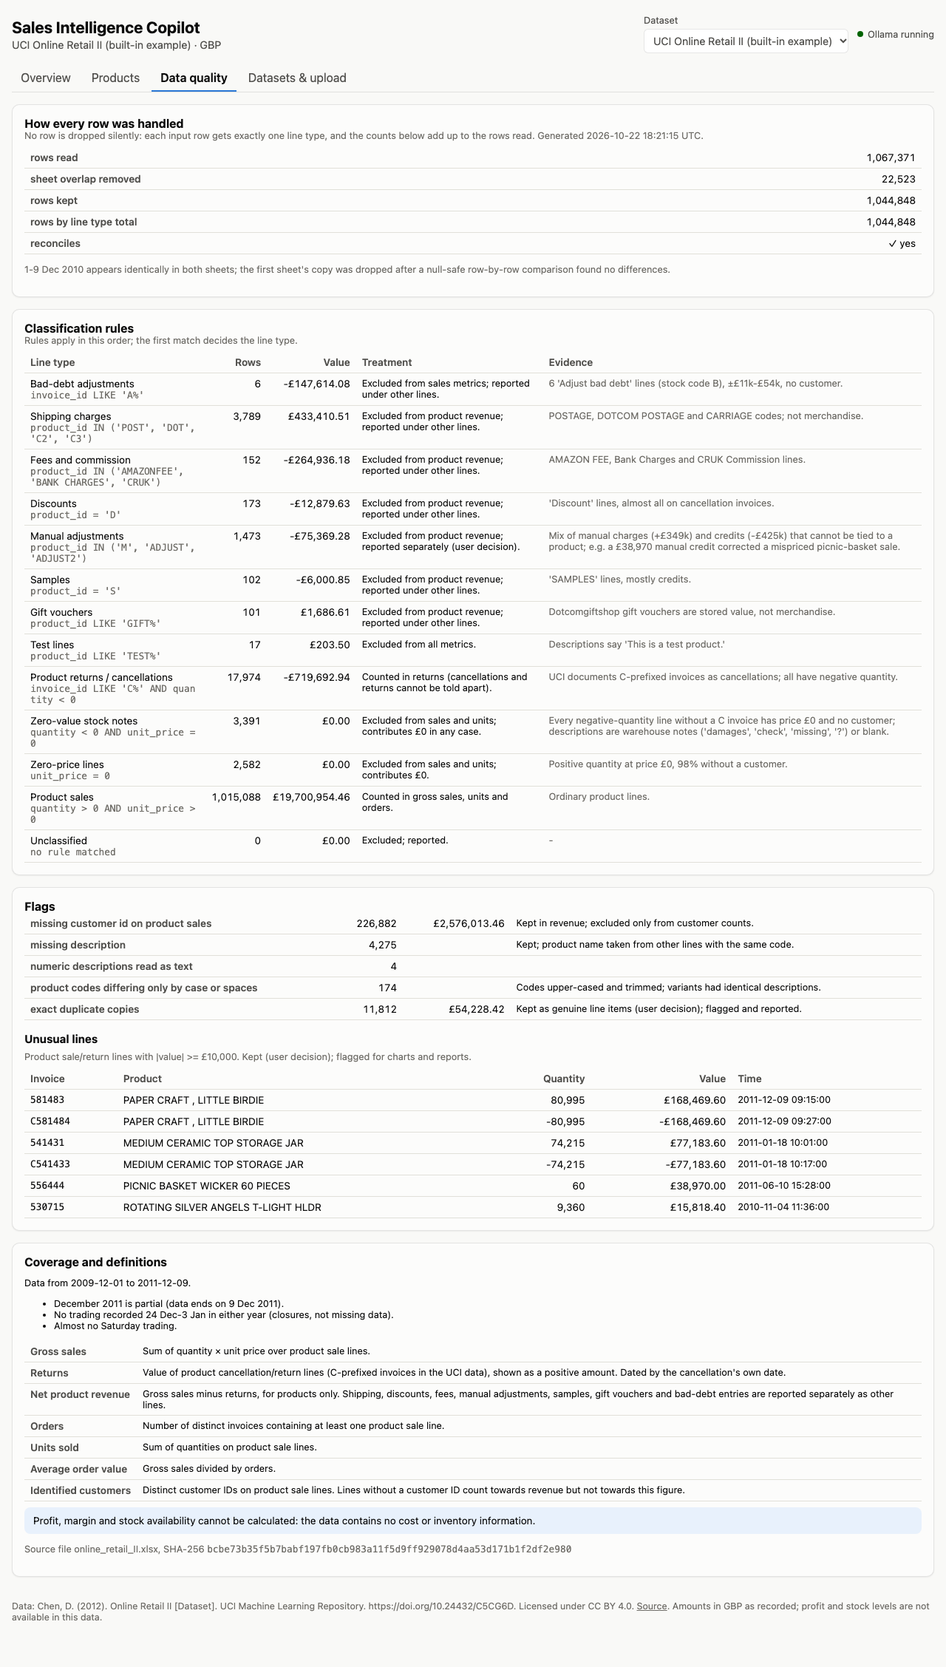
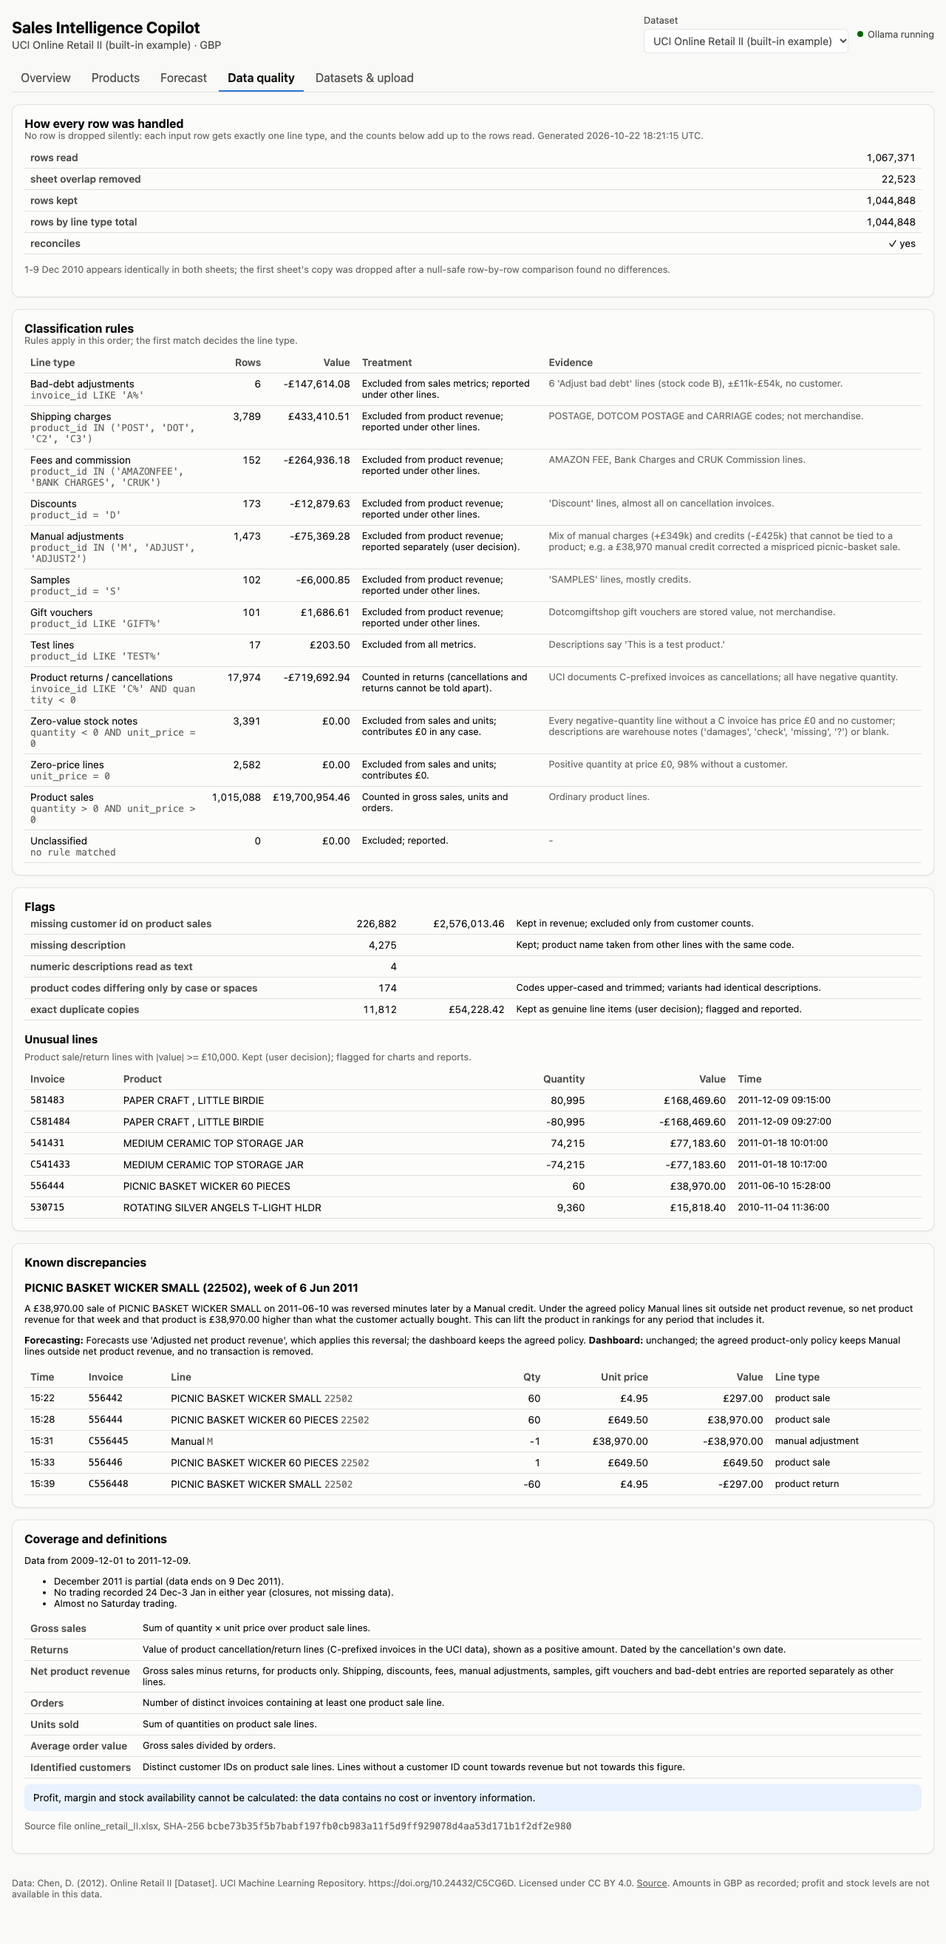
Document forecasting method, results and Milestone 3 status
docs/forecasting.md explains the target, frozen design, integrity timeline,
results by horizon, what they mean (validation contained no peak season, so
the selected total model lost to seasonal naive on the holdout) and
limitations. README and PROJECT_STATUS updated; screenshots retaken.

diff --git a/PROJECT_STATUS.md b/PROJECT_STATUS.md
@@ -1,13 +1,51 @@
 # Project status
 
-_Last updated: 2026-10-24 (Milestone 3 feasibility review, awaiting approval)._
+_Last updated: 2026-10-24 (end of Milestone 3)._
 Read this first when resuming work on any computer.
 
 ## Current milestone
-**Milestone 3 (forecasting): feasibility review done; no model trained.** Waiting for the user's decisions and approval before implementing training.
-Milestone 2 is complete on macOS.
+**Milestone 3 (forecasting): complete on macOS, awaiting review.** Milestone 4 (assistant) has **not** started.
 
-## Milestone 3 so far
+## Completed: Milestone 3
+- **Approved decisions implemented:**
+  - Option A forecasting-only correction.
+  - Dashboard note for the picnic basket.
+  - Christmas closure weeks kept as £0 and flagged "inferred Christmas closure".
+  - Holiday-calendar inputs from a published list.
+  - Total + top 20 products, horizons 1–8.
+- **Frozen design:** [configs/forecast.toml](configs/forecast.toml), committed (`685e1b4`) before any model ran on the data. The pipeline has a two-stage guard: the holdout stage refuses to run if the config or data changed after selection.
+- **Code:**
+  - [backend/sic/forecast/](backend/sic/forecast/): calendar, series and corrections, models, evaluation, pipeline, report.
+  - [backend/sic/jobs.py](backend/sic/jobs.py): background job runner with progress.
+  - [backend/sic/api/forecast.py](backend/sic/api/forecast.py).
+  - [scripts/train_forecast.py](scripts/train_forecast.py).
+- **Forecast page:**
+  - Target explanation (adjusted vs reported).
+  - Training with a progress bar.
+  - Future forecast with 80% range and a seasonal-naive comparison line.
+  - Holdout backtest by horizon.
+  - Metric tables with n and n/a reasons.
+  - Automatic warnings.
+- **Dashboard:**
+  - A visible picnic-basket note on Overview/Products when that week or product is in view, linking to full details (5 transactions) on Data quality.
+  - Weekly zeros explained: "inferred Christmas closure" vs "business was trading; no recorded sales".
+- **Uploads:** train on their own data with the same rules (minimum 70 complete weeks), month-only calendar, artifacts in the upload's ignored folder.
+- **Write-up:** [docs/forecasting.md](docs/forecasting.md). Full metrics: [evaluation/forecast/uci/report.md](evaluation/forecast/uci/report.md).
+
+### Results (built-in data)
+| Group | Selected on validation | Validation mean WAPE | Holdout mean WAPE | Best on holdout |
+|---|---|---:|---:|---|
+| Business total | HistGradientBoosting | 19.3% | **24.6%** | Seasonal naive, 9.5% |
+| Top 20 products | 4-week moving average (baseline) | 50.7% | 50.4% | Same model |
+
+- **Business total, 80% intervals:** covered 0–44% of holdout weeks (calibration n = 12 → 5). Far too narrow.
+- **Products, 80% intervals:** 57–80% coverage (n = 240 → 100).
+- **Integrity record:**
+  - The holdout is **not completely unseen**: its aggregate weekly totals were inspected during the feasibility review.
+  - The first holdout run crashed while saving the model file (pickling error), before any holdout metric was written or shown. Only the serialization was fixed (`55b4553`).
+  - The final clean re-run (`14ab70a`) reproduced the metrics exactly.
+
+## Milestone 3 feasibility review
 - **Feasibility review:** [docs/forecasting_feasibility_review.md](docs/forecasting_feasibility_review.md). Reproducible with [scripts/forecast_feasibility.py](scripts/forecast_feasibility.py), which writes [evaluation/forecast_feasibility/review.json](evaluation/forecast_feasibility/review.json) and asserts the window dates.
 - **Key findings:**
   - **Weeks:** 104 complete weeks (7 Dec 2009 → 4 Dec 2011). Two weeks have no records of any kind (the Christmas closures, weeks 4 and 56). No missing data was detected: every non-trading weekday matches a UK public holiday or the Christmas closure.
@@ -61,6 +99,17 @@ Milestone 2 is complete on macOS.
 - **Memory check**: [scripts/memory_check.py](scripts/memory_check.py) (one model plus the running app), with results in [evaluation/memory/](evaluation/memory/2026-10-22_darwin-arm64.md).
 
 ## Checks performed (actual results)
+### Milestone 3
+| Check | Result |
+|---|---|
+| `uv run pytest` | **64 passed**. They cover: future-data perturbation for all 6 models; window boundaries; horizon/provisional rules; metrics including n/a; the selection rule (a baseline can win, ties go to the simpler model, the experiment is never selected); calendar; exact/unique/too-late correction matching; the real-data correction touching one week only; closure flags; model save/reload; upload training through the job API; ineligible short uploads |
+| Selection recorded before the holdout | Selection commit `685e1b4` (clean); selection results committed (`d89d3a1`) before any holdout run |
+| Holdout re-run reproducibility | `report.md` identical apart from the run timestamp and commit |
+| Browser: upload → Forecast → Train | Progress bar shown; finished; upload selected Ridge for its total on its own validation; month-only calendar; no page errors; deleted with no leftovers |
+| Browser: picnic note | Shown for periods including 6 Jun 2011, hidden for November 2011; "Details" opens 5 transactions |
+| Bank-holiday list consistency | All 17 weekday bank holidays in the data range had no trading; every non-trading weekday is a bank holiday or 24 Dec–3 Jan |
+| Upload e2e (`scripts/e2e_upload_check.py`) and screenshots | Pass; light/dark screenshots retaken, including Forecast |
+
 ### Milestone 3 (review stage)
 | Check | Result |
 |---|---|
@@ -144,18 +193,25 @@ The assistant is **not complete** until each of these is implemented **and verif
 - Validation and grounding checks reduce errors but **do not guarantee correctness**. The reports must say so.
 
 ## Pending decisions (need the user)
-1. **Picnic-basket treatment for the forecasting target:**
-   - **A (recommended):** a documented correction rule applied to the forecasting series only.
-   - **B:** no correction.
-   - **C:** exclude week 79 from validation scoring.
-   - The revenue policy stays unchanged either way.
-2. **Dashboard annotation** for product 22502 and the week of 6 June 2011 (recommended); no policy change.
-3. **Closure weeks:** keep them as zeros and add a calendar trading-days feature (recommended).
-4. **First forecasting scope:** total + top 20 products (recommended), or the total only.
-5. **Code licence:** to be discussed separately.
+1. **Business-total forecasting model.** The frozen selection (HistGradientBoosting) lost clearly to seasonal naive on the holdout, and its intervals under-cover. Options:
+   - Keep it, with the warnings shown (current state).
+   - Adopt seasonal naive as a separately labelled "v2" chosen after seeing holdout results. No untouched data would remain to test it.
+   - Revise the selection design for future data.
+2. **Code licence:** to be discussed separately.
+
+### Decided (Milestone 3)
+- Picnic basket: Option A (forecasting-only correction); dashboard note approved.
+- Closure weeks: £0, flagged "inferred Christmas closure"; published holiday calendar as inputs only.
+- Scope: total + top 20 products (selected on weeks 1–60); horizons 1–8 (6–8 provisional).
 
 ## Known issues and limitations
 ### Open issues (must stay open until verified fixed)
+- **Business-total forecast (open):**
+  - The selected model's holdout WAPE is 24.6% vs 9.5% for seasonal naive; bias rises to +33% at 8 weeks.
+  - It forecasts −£8,036 for the week of 26 Dec 2011.
+  - Its 80% ranges are too narrow.
+  - **Cause:** with two years of data, validation (Feb–Jun) contains no peak season. See decision 1.
+- **Flat product forecasts (open):** the selected 4-week moving average repeats one value for 8 weeks and cannot anticipate seasonal turns (e.g. Christmas products in January).
 - **Instruct model argument errors (open):** 81% correct arguments in the 16-question regression test. Seen errors:
   - swapped comparison periods in the main example request
   - `horizon_weeks: 20`, beyond the 8-week limit (validation caught it)
@@ -203,13 +259,10 @@ The assistant is **not complete** until each of these is implemented **and verif
   - `uv run python scripts/download_data.py`
   - `uv run python scripts/prepare_data.py` (the pinned-totals test confirms the result matches)
   - `uv run playwright install chromium` (only needed for screenshots and browser checks)
+  - `uv run python scripts/train_forecast.py --stage selection`, then `--stage holdout`. This regenerates the local model files; the tracked metrics in `evaluation/forecast/uci/` should reproduce. Uploads' models are retrained in the app.
 - **Never copied between computers:** uploaded datasets live only on the computer where they were uploaded; re-upload them if needed.
 - **Local Git settings are per clone.** On a new clone, repeat the `git config --local` steps in [docs/setup-macos.md](docs/setup-macos.md).
   - These include `http.postBuffer`: pushing the screenshots failed with `HTTP 400` until it was raised for this repository.
 
 ## Next task
-Once the user has decided items 1–4 above and approved the review, implement the Milestone 3 training pipeline:
-- baselines and pooled ML models
-- rolling-origin validation, calibration and holdout evaluation
-- leakage tests
-- model card with metrics, forecast page and background training job
+After the user reviews Milestone 3 and decides on the business-total model (decision 1): **Milestone 4 (assistant and reports)**, under the completion criteria recorded above. The `run_forecast` tool will reuse `pipeline.fresh_forecast` (evaluated series and horizons only).

diff --git a/docs/forecasting.md b/docs/forecasting.md
@@ -1,0 +1,112 @@
+# Forecasting: method, results and what they mean (Milestone 3)
+
+The full numbers are in [evaluation/forecast/uci/report.md](../evaluation/forecast/uci/report.md), and the design review is in [forecasting_feasibility_review.md](forecasting_feasibility_review.md). To reproduce on any computer, after preparing the data:
+
+```bash
+uv run python scripts/train_forecast.py --stage selection
+uv run python scripts/train_forecast.py --stage holdout
+```
+
+## 1. What is forecast
+
+**Adjusted net product revenue, per complete Monday–Sunday week:**
+- **Base figure:** the dashboard's **Net product revenue** (product sales − product returns).
+- **One documented forecasting-only correction:**
+  - **What:** the £38,970 picnic-basket sale reversed by a Manual credit (invoices 556444 / C556445, spreadsheet rows 222673 / 222683 of sheet "Year 2010-2011").
+  - **Where it applies:** it lowers the **business total** for the week of 6 June 2011 from £212,228.43 to £173,258.43.
+  - **Product 22502:** this product is not among the 20 forecast products; its own adjusted weekly figure (£39,981.52 → £1,011.52) is recorded with the correction.
+  - **What stays unchanged:** the dashboard, the stored transactions and every other week.
+- **Christmas closure weeks:** the two Christmas weeks with no transactions of any kind stay as £0 and are flagged **"inferred Christmas closure"**. The closure is inferred from the calendar pattern, not confirmed.
+
+**Series forecast:** the business total, plus the top 20 products selected on weeks 1–60 only (834 eligible products).
+
+## 2. Design, frozen before any result
+
+Fixed in [configs/forecast.toml](../configs/forecast.toml) and committed (`685e1b4`) before any model ran on this data:
+
+| Item | Setting |
+|---|---|
+| Windows | Selection 1–60 · validation 61–80 (31 Jan–19 Jun 2011) · calibration 81–92 (20 Jun–11 Sep 2011) · holdout 93–104 (12 Sep–4 Dec 2011) |
+| Candidates | Naive, 4-week moving average, seasonal naive, Ridge (pooled), HistGradientBoosting (pooled) |
+| Experiment (never selected) | HistGradientBoosting + 52-week lag |
+| Features | Lags 1–4, rolling mean/std of lags 1–8 (scaled per series using training weeks only), month, England & Wales bank-holiday weekdays, days in 24 Dec–1 Jan. Calendar facts are known in advance and never force a zero. Uploads get month only, since their country is unknown |
+| Forecasting | Recursive, 1–8 weeks; refitted at every origin on earlier weeks only |
+| Selection | Lowest validation WAPE, averaged equally over h = 1–8. Products pooled (revenue-weighted). Ties within 0.5 points go to the simpler model. Total and products chosen separately |
+| Intervals | 80% from calibration residual quantiles per horizon. h = 6–8 marked provisional (fewer than 8 calibration points per series) |
+
+**Integrity timeline**
+
+| Step | Commit |
+|---|---|
+| Design and code frozen | `685e1b4` |
+| Validation and selection recorded | `d89d3a1` |
+| Holdout results recorded | `f359395` (holdout run at `55b4553`) |
+| Clean re-run with identical metrics | `14ab70a` (run at `5f23e25`) |
+
+- **The holdout isn't fully unseen.** Its aggregate weekly totals were inspected in the feasibility review, before the design was frozen.
+- **One failed run.** The first holdout run crashed while saving the model file (a pickling error), before any holdout metric was written or shown. Only the saving code was fixed.
+- **Automated tests:** a future-data perturbation test for every model, plus window-boundary tests.
+
+## 3. Results
+
+### Which model won
+| Group | Selected on validation (frozen rule) | Validation mean WAPE | Holdout mean WAPE | Best on holdout |
+|---|---|---:|---:|---|
+| Business total | **HistGradientBoosting** | 19.3% (vs 20.0% for the moving average) | **24.6%** | Seasonal naive, **9.5%** |
+| Top 20 products | **4-week moving average** (a baseline) | 50.7% | **50.4%** | The same model |
+
+### Business total, holdout by horizon (selected model vs seasonal naive)
+| h | n | HGB WAPE | HGB bias | Seasonal naive WAPE | 80% interval coverage (HGB) |
+|---:|---:|---:|---:|---:|---:|
+| 1 | 12 | 17.6% | −1.6% | 14.9% | 33% |
+| 2 | 11 | 18.8% | +5.7% | 14.0% | 36% |
+| 3 | 10 | 16.1% | +11.7% | 12.6% | 40% |
+| 4 | 9 | 24.5% | +19.1% | 10.3% | 44% |
+| 5 | 8 | 24.4% | +23.9% | 9.7% | 38% |
+| 6 (provisional) | 7 | 33.4% | +29.3% | 5.7% | 29% |
+| 7 (provisional) | 6 | 29.3% | +26.3% | 5.1% | 33% |
+| 8 (provisional) | 5 | 32.8% | +32.8% | 3.8% | 0% |
+
+### Top products (pooled), selected moving average
+- **WAPE:** 41.9% at h = 1, rising to 58.7% at h = 8.
+- **80% interval coverage:** 75–80% at h = 1–3, falling to 57% at h = 8 (calibration n = 240 → 100).
+- **Strongly seasonal products** are much better served by seasonal naive:
+  - Paper chain kit 50's Christmas: 14.8% vs 62.6%.
+  - The two hot water bottles: 26–29% vs 45–49%.
+
+### Experiment (52-week lag)
+- **Business total:** 30.8%, worse than every candidate.
+- **Products:** 52.4%, between seasonal naive and the moving average.
+
+With only 8–40 training rows per series for this feature, the experiment wasn't expected to be reliable.
+
+## 4. What the results mean
+
+1. **The selection rule was sound in principle but used an unrepresentative window.**
+   - Validation covered February–June 2011. There, the year-ago pattern repeated only moderately well: seasonal naive came 3rd of 5 for the total (21.6% mean WAPE) and was worse than the 4-week moving average at 7 of 8 horizons.
+   - The holdout covers September–November, where the pre-Christmas peak repeats strongly from 2010. The ranking flipped.
+   - With only two years of data, no validation window before the holdout contains a peak season. This is a limit of the data, not of the code.
+2. **The selected business-total model is not trustworthy for this season.**
+   - HistGradientBoosting over-forecasts more as the horizon grows (bias +6% to +33%).
+   - It forecasts **−£8,036 for the week of 26 Dec 2011**. It learned from the calendar input that Christmas weeks are near zero and overshot below zero. Nothing forces a zero, as required. A negative week is implausible, and this was left visible rather than clipped.
+   - Its 80% ranges covered 0–44% of holdout weeks. They were calibrated on 5–12 quiet summer weeks, so they are far too narrow.
+3. **The product forecasts are honest but basic.**
+   - A baseline won, and it held up on the holdout.
+   - Its forecasts are flat: the same value for all 8 weeks. So it cannot anticipate seasonal turns, such as Christmas products after December.
+4. **Error levels.** About 15–25% weekly error for the total and about 40–60% for single products. Weekly product sales are volatile, so treat product forecasts as rough guides.
+
+The app keeps the frozen selection, shows these warnings on the Forecast page, and draws the seasonal-naive forecast beside it. Whether to switch the business-total model is a decision for the project owner. Any switch would have been chosen after seeing holdout results, so it would have to be labelled as such, and no untouched data would remain to test it.
+
+## 5. Uploads
+- **Same pipeline, own data:** an upload uses the same pipeline and frozen rules on its own data, through the **Train and evaluate** button, which runs as a background job with progress.
+- **Minimum history:** **70 complete weeks** (26 history + 20 validation + 12 calibration + 12 holdout). Shorter uploads are refused with that explanation.
+- **Calendar:** no UK holidays are assumed; month is the only calendar input.
+- **Storage:** models and results are stored in the upload's own folder under `data/uploads/` (ignored by Git) and are deleted with the upload. The built-in model is never applied to uploads.
+- **Complete weeks:** a business that never trades on weekends has its final week counted as partial if the data ends on a Friday.
+
+## 6. Limitations
+- Two years of data; only 12 holdout weeks; h = 6–8 are provisional.
+- Intervals for the business total are unreliable (see above).
+- Fixed hyperparameters (no tuning), to keep the comparison simple and honest.
+- The bank-holiday list was transcribed from gov.uk. It was checked for consistency against the dataset (all 17 weekday bank holidays in range had no trading), but it is not an operating schedule.
+- **Windows: unverified.**

diff --git a/README.md b/README.md
@@ -2,7 +2,7 @@
 
 A local sales analytics application: an interactive dashboard, a forecasting model trained and evaluated on historical sales, and an AI assistant that answers business questions by calling validated analysis tools.
 
-> **Status: Milestone 2 complete (data pipeline, dashboard, CSV upload).** Forecasting (Milestone 3) and the assistant (Milestone 4) are not built yet. See [PROJECT_STATUS.md](PROJECT_STATUS.md) for what is done and what is verified.
+> **Status: Milestone 3 complete (forecasting).** The assistant (Milestone 4) is not built yet. See [PROJECT_STATUS.md](PROJECT_STATUS.md) for what is done and what is verified.
 
 ![Overview dashboard](docs/screenshots/overview-light.png)
 
@@ -11,12 +11,17 @@ A local sales analytics application: an interactive dashboard, a forecasting mod
 - **Dashboard** at `http://127.0.0.1:8000`, in light or dark mode following the system setting:
   - Overview: KPIs with change versus the previous period, weekly/monthly trends with partial periods marked, top products, countries, and "other lines" kept out of revenue.
   - Products: searchable and sortable product table, with a trend chart for each product.
-  - Data quality: every cleaning rule with row counts, values and evidence.
+  - Forecast: weekly **Adjusted net product revenue** forecasts (business total + top 20 products, 1–8 weeks) with 80% ranges, a seasonal-naive comparison, holdout backtests and honest metrics. Training runs as a background job with progress.
+  - Data quality: every cleaning rule with row counts, values and evidence, plus known discrepancies.
   - Datasets & upload: upload your own sales CSV through a template, column mapping, validation messages and a preview. Each upload is stored separately.
 - **Definitions** used everywhere: **net product revenue** = product sales − product returns. Shipping, fees, discounts and adjustments are reported separately. Profit and stock are not available in this data, and the app says so.
 
+## Forecasting results (honest summary)
+- **Comparison:** baselines vs Ridge vs HistGradientBoosting, using frozen rules, time-based validation, calibration and a final holdout. See [docs/forecasting.md](docs/forecasting.md).
+- **Business total:** HistGradientBoosting was selected on validation (19.3% WAPE), but on the holdout it lost clearly to **seasonal naive** (24.6% vs 9.5% WAPE). Its 80% ranges were too narrow.
+- **Top products:** the 4-week moving-average baseline won and held up (≈50% WAPE).
+
 ## Planned
-- Weekly net-product-revenue forecasting that compares simple baselines with machine-learning models using time-based backtests (Milestone 3).
 - A tool-using assistant powered by **Qwen3 4B Instruct running locally in Ollama** (`qwen3:4b-instruct-2507-q4_K_M`). The model chooses tools and the application code does every calculation (Milestone 4).
 
 ## Architecture
@@ -25,7 +30,7 @@ A local sales analytics application: an interactive dashboard, a forecasting mod
 | Dashboard | React 19 + TypeScript, built with Vite; Apache ECharts |
 | API | Python 3.13, FastAPI, served on `127.0.0.1` only |
 | Data | pandas for reading, DuckDB SQL for cleaning and metrics (one database file per dataset) |
-| Forecasting | scikit-learn (Milestone 3) |
+| Forecasting | scikit-learn (Ridge, HistGradientBoosting) plus baselines; frozen config in `configs/forecast.toml` |
 | Assistant | Ollama (local), Qwen3 4B Instruct with tool calling (Milestone 4) |
 
 All figures come from one metrics module (`backend/sic/metrics/`). The dashboard, and later the assistant and reports, call the same functions, so they always agree.
@@ -38,17 +43,20 @@ uv sync                                     # Python 3.13 + locked packages
 npm ci --prefix frontend                    # dashboard packages
 uv run python scripts/download_data.py      # official UCI file (~45 MB), with checksums
 uv run python scripts/prepare_data.py       # clean and classify (~7 s)
+uv run python scripts/train_forecast.py --stage selection   # validation + calibration (~20 s)
+uv run python scripts/train_forecast.py --stage holdout     # final holdout + future forecast (~10 s)
 uv run sic serve                            # builds the dashboard if needed, opens the browser
 ```
 
 Checks:
 ```bash
-uv run pytest                                   # 44 tests: metrics, rules, isolation, uploads, API
+uv run pytest                                   # 64 tests: metrics, rules, isolation, uploads, API, forecasting (incl. leakage)
 uv run python scripts/e2e_upload_check.py       # browser test of the upload journey (app must be running)
 ```
 
 ## Documentation
 - [Data cleaning rules and evidence](docs/data_cleaning.md) · [Raw-data profile](docs/data_profile_uci.md) · [Data dictionary](docs/data_dictionary.md)
+- [Forecasting method and results](docs/forecasting.md) · [Evaluation report](evaluation/forecast/uci/report.md) · [Feasibility review](docs/forecasting_feasibility_review.md)
 - [Qwen3 4B feasibility test](evaluation/llm_feasibility/2026-10-22_darwin-arm64.md) · [Memory checks](evaluation/memory/)
 - [Screenshots](docs/screenshots/)
 
